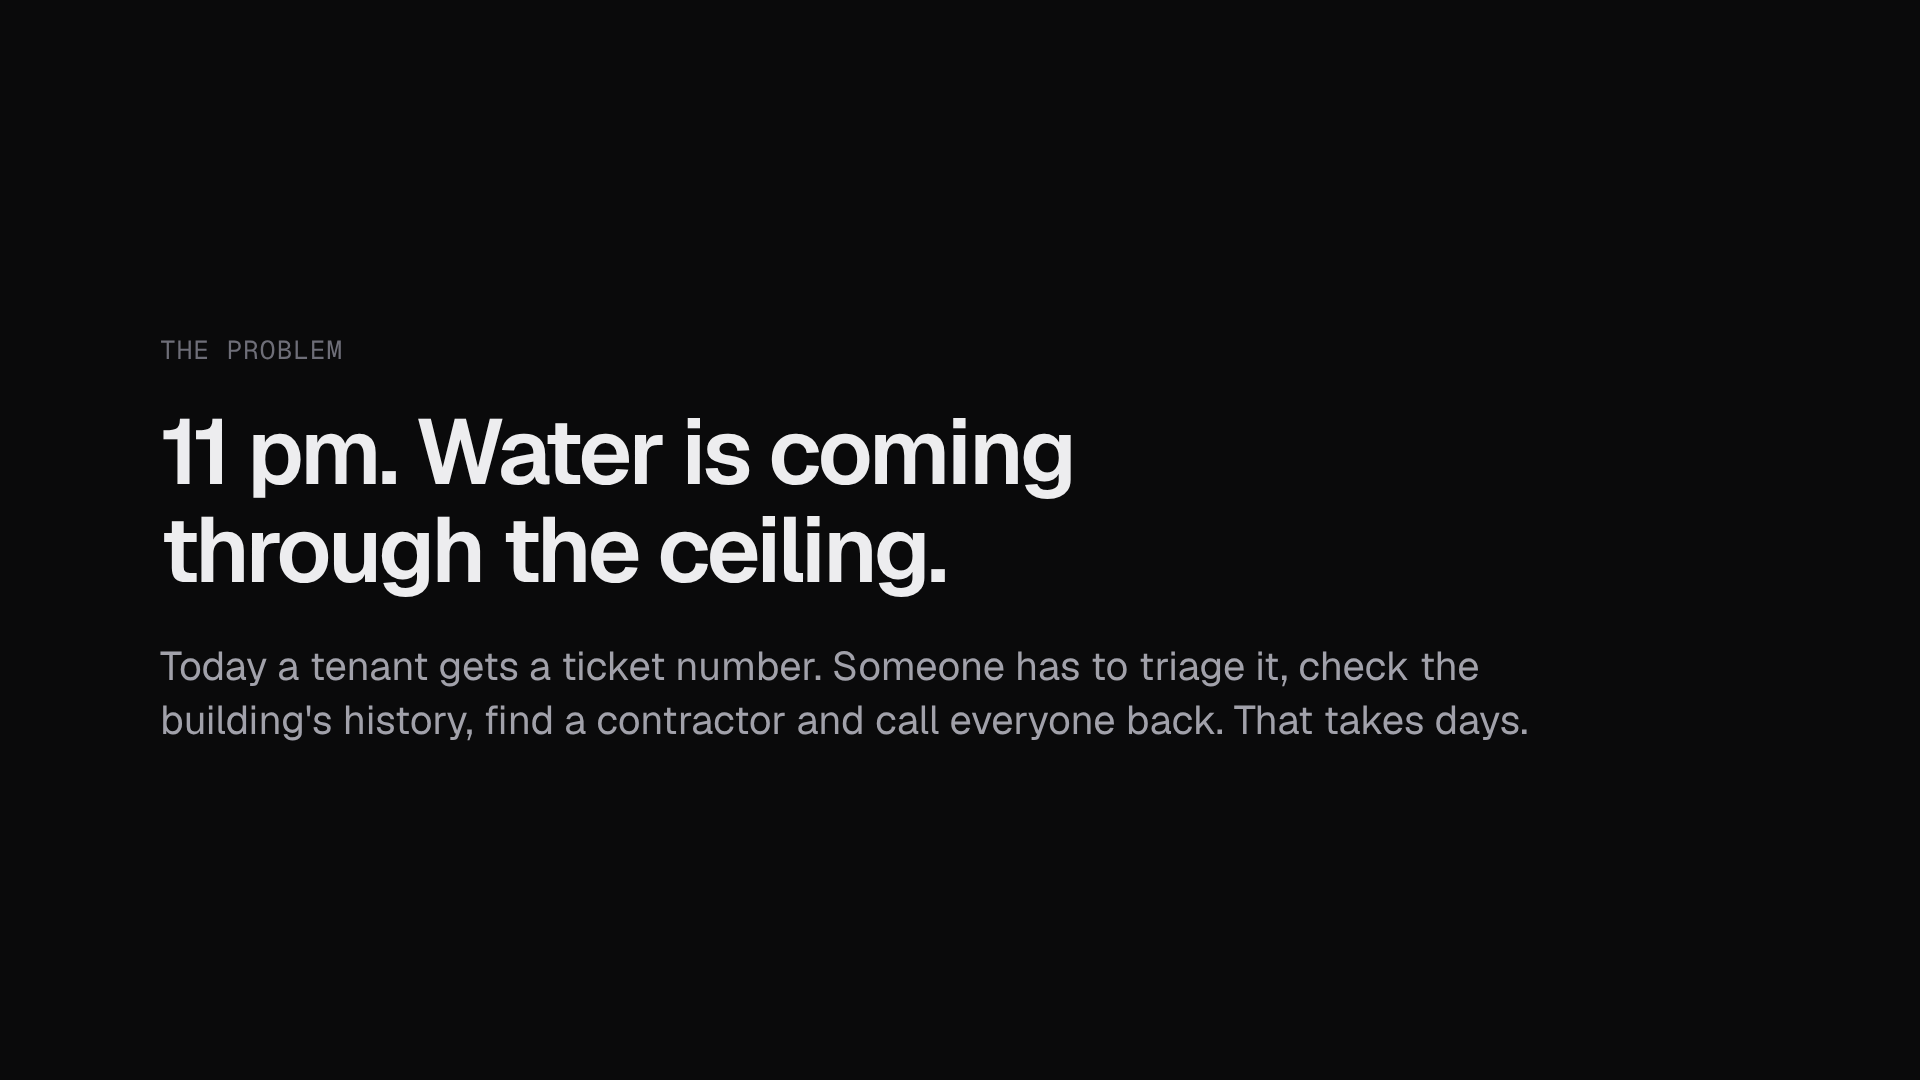
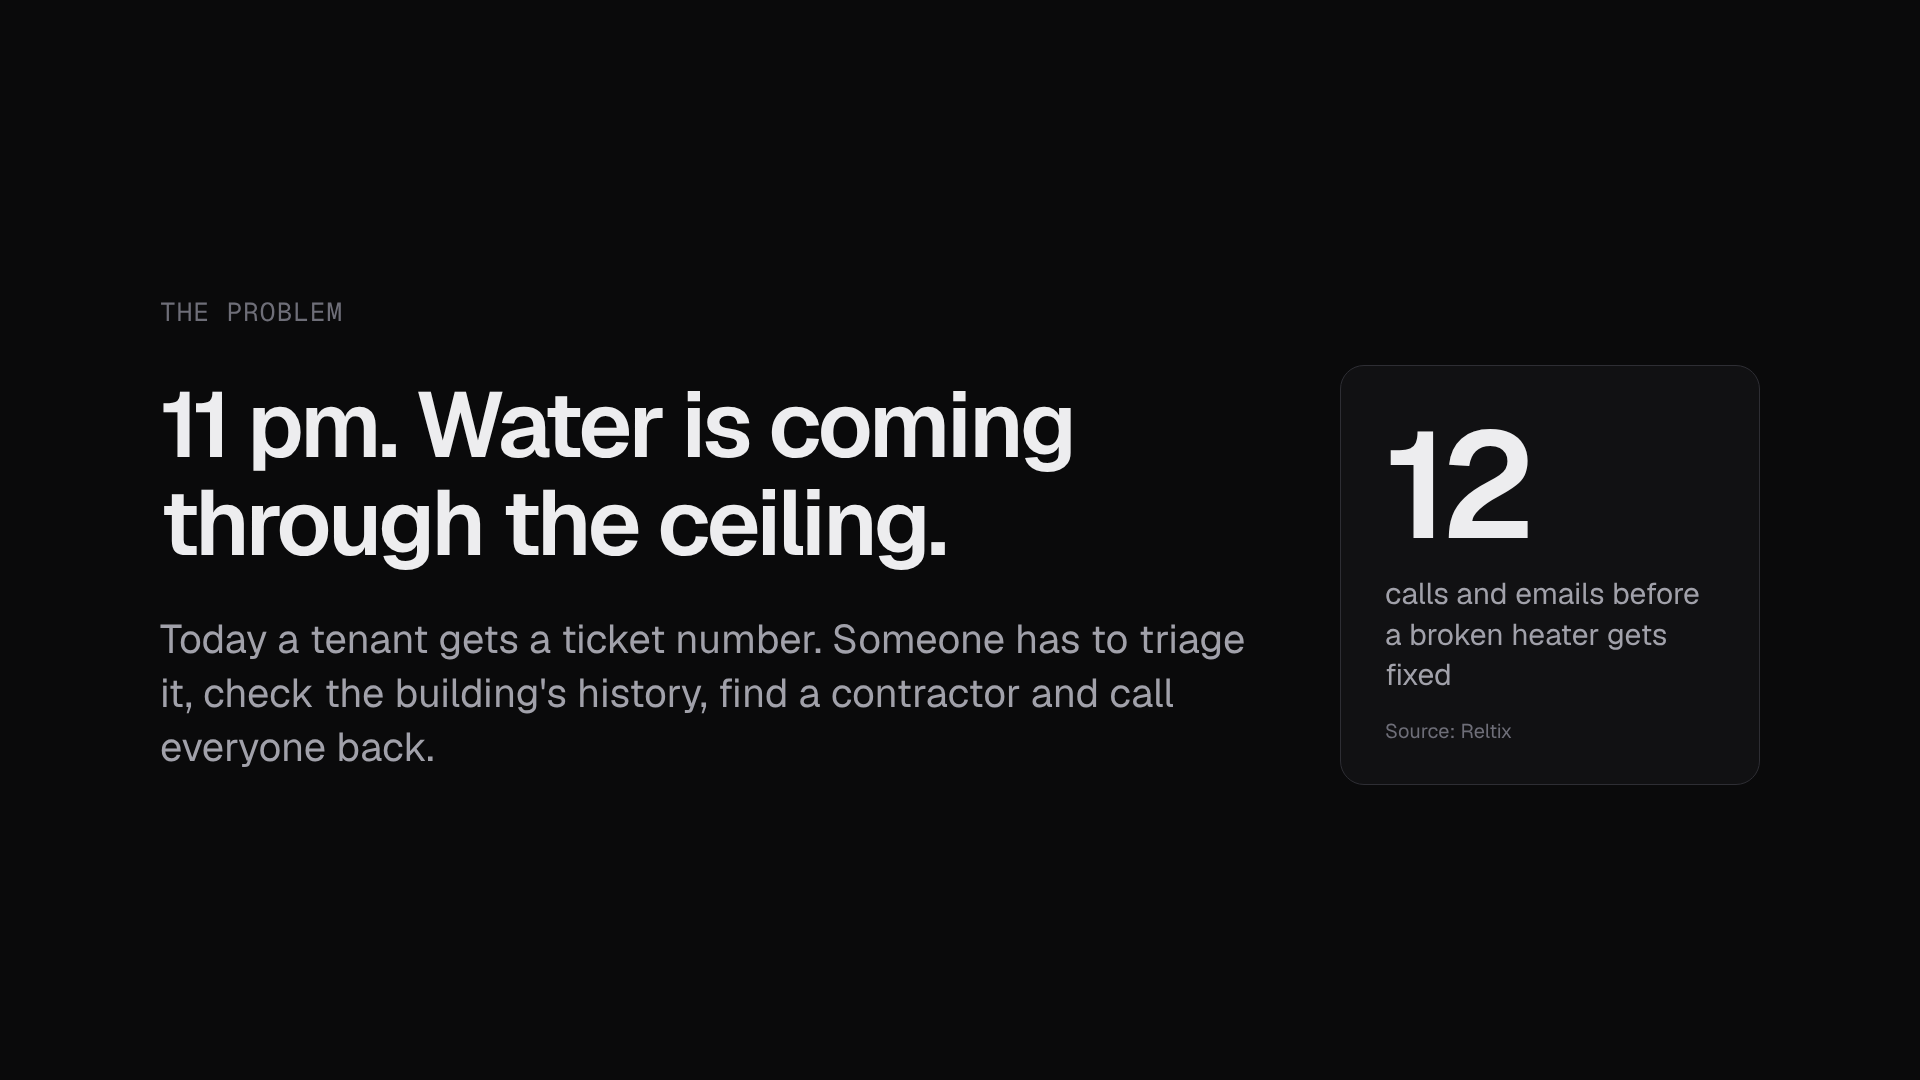
Put Reltix's 12-calls figure on the problem card and in the storyboard voiceover.
Claude-Session: https://claude.ai/code/session_014qeHHF5ECcV7fW5wiqXaRv

Changed region(s): [[0.0625, 0.3972, 0.875, 0.7028], [0.0625, 0.3667, 0.5625, 0.55], [0.0938, 0.275, 0.1875, 0.3361]]

diff --git a/demo-video/cards.html b/demo-video/cards.html
@@ -50,8 +50,17 @@
 <!-- 2. The problem -->
 <section class="card" data-name="02-problem">
   <div class="kicker">The problem</div>
-  <h2>11 pm. Water is coming<br>through the ceiling.</h2>
-  <p class="sub">Today a tenant gets a ticket number. Someone has to triage it, check the building's history, find a contractor and call everyone back. That takes days.</p>
+  <div style="display:flex;gap:90px;align-items:center">
+    <div style="flex:1">
+      <h2>11 pm. Water is coming<br>through the ceiling.</h2>
+      <p class="sub">Today a tenant gets a ticket number. Someone has to triage it, check the building's history, find a contractor and call everyone back.</p>
+    </div>
+    <div style="flex:none;width:420px;border:1px solid #2e2e34;border-radius:24px;padding:44px 44px 40px;background:#111113">
+      <div style="font-size:150px;font-weight:600;letter-spacing:-0.05em;line-height:1">12</div>
+      <div style="font-size:30px;color:#a1a1aa;line-height:1.35;margin-top:14px">calls and emails before a broken heater gets fixed</div>
+      <div style="font-size:20px;color:#6e6e78;margin-top:22px">Source: Reltix</div>
+    </div>
+  </div>
 </section>
 
 <!-- 3. Before the live run -->

diff --git a/demo-video/STORYBOARD.md b/demo-video/STORYBOARD.md
@@ -7,12 +7,12 @@ Cards: the PNGs in this folder (1920×1080). Edit text in `cards.html`, re-rende
 | Time | Picture | Voiceover |
 |---|---|---|
 | 0:00–0:06 | `01-title.png` | "This is Hausmeister, the AI caretaker that books the plumber before you hang up." |
-| 0:06–0:20 | `02-problem.png` | "It's 11 pm and water is coming through your ceiling. Today you get a ticket number, and someone has to triage it, check the building, find a contractor and call everyone back. That takes days." |
+| 0:06–0:20 | `02-problem.png` | "It's 11 pm and water is coming through your ceiling. Today you get a ticket number, and someone has to triage it, check the building, find a contractor and call everyone back. Reltix counts twelve calls and emails before a broken heater gets fixed." |
 | 0:20–0:24 | `03-live.png` | "Here's one real call. Real phones, real time, no cuts." |
 | 0:24–1:50 | **Uncut live run**: dashboard in stage mode (`/?stage=1`), phone mirrored or filmed on the side, call audio on | Mostly silent: let the call speak. Short captions only at the key beats (see below). |
 | 1:50–2:05 | `04-context.png` | "The difference is context. Hausmeister read the building's history, saw three leaks in the same stack, sent the plumber to the flat above first, and asked that neighbour for access." |
 | 2:05–2:20 | `05-connector.png` | "And the plumber is just partner one. Every partner (internet, energy) plugs in the same way: one new file." |
-| 2:20–2:30 | `06-close.png` | "Tenants don't want a ticket number. They want the plumber booked." |
+| 2:20–2:30 | `06-close.png` | "Twelve calls and emails, down to one. Tenants don't want a ticket number. They want the plumber booked." |
 
 ## Captions during the live run (one line each, bottom of screen)
 1. Caller recognised by phone number
